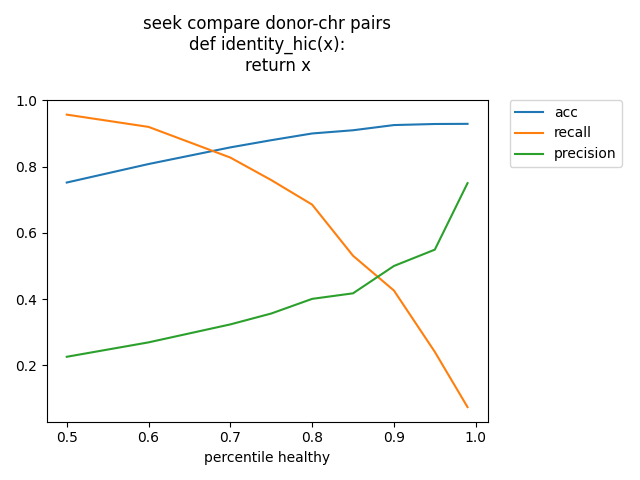
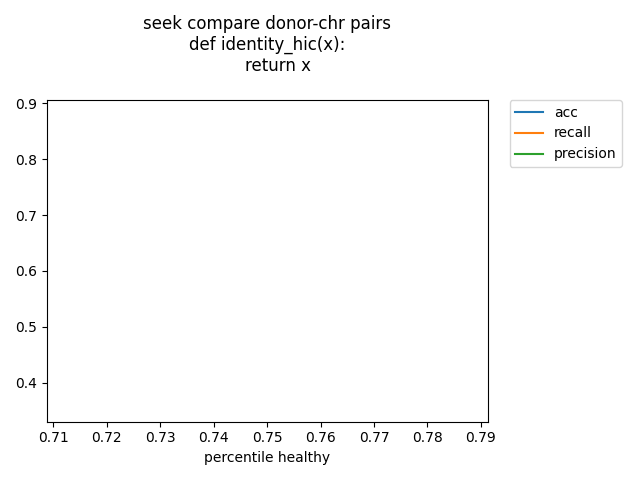
example search

diff --git a/DonorAnalyzer.py b/DonorAnalyzer.py
@@ -10,7 +10,8 @@ import sys
 from DenseUtils import heatmap_with_breakpoints_and_cluster, create_path_if_not_exist, plot_distribution, perf_measure, \
     plot_seek_distibution, plot_seek_compare, plot_sustainability
 from DonorRepository import DonorRepository
-from DonorService import collect_chr_bins_map_with_resolution, bps_to_bins_with_resolution, filter_svs_with_resolution
+from DonorService import collect_chr_bins_map_with_resolution, bps_to_bins_with_resolution, filter_svs_with_resolution, \
+    filter_chr_svs_with_resolution
 from GoldbergWeighted import WFind_Densest_Subgraph, WFind_Density
 
 import matplotlib.pyplot as plt
@@ -490,8 +491,10 @@ def shatter_seek_compare(analyze_donor_chr_pairs=False):
         COMMON_DONORS = seek_donors.intersection(pcawg_donors)
         COMMON_DONOR_CHR_PAIRS = list(map(lambda e: (e[0], int(e[1])), seek_chr_pairs.intersection(pcawg_pairs)))
 
-        iss = [11, 12, 1, 2, 3]
-        ratios = [0.5, 0.6, 0.7, 0.75, 0.8, 0.85, 0.9, 0.95, 0.99]
+        # iss = [11, 12, 1, 2, 3]
+        iss = [11]
+        # ratios = [0.5, 0.6, 0.7, 0.75, 0.8, 0.85, 0.9, 0.95, 0.99]
+        ratios = [0.75]
         print(f'mode donor chr pairs={analyze_donor_chr_pairs}')
         for i in iss:
             print(f'f_id = {i}')
@@ -499,6 +502,8 @@ def shatter_seek_compare(analyze_donor_chr_pairs=False):
             recalls = []
             precisions = []
             for ratio in ratios:
+                common_chromo_donor_pairs = []
+
                 infoids = hist_patients(i, ratio=ratio, dens_plot=False, seek_plot=False, periphery_plot=False,
                                         cluster_plot=False)
                 chromo_donors = set()
@@ -522,6 +527,12 @@ def shatter_seek_compare(analyze_donor_chr_pairs=False):
                             own_v.append(1)
                         else:
                             own_v.append(0)
+                        if seek_v[-1] == 1 and own_v[-1] == 1:
+                            common_chromo_donor_pairs.append(p)
+                    common_chromo_pairs_path = f'seek_compare/{f_id}/{ratio}/common_pairs.npy'
+                    create_path_if_not_exist(common_chromo_pairs_path)
+                    with open(common_chromo_pairs_path, 'wb') as fl:
+                        np.save(fl, np.array(common_chromo_donor_pairs))
                 else:
                     for d in COMMON_DONORS:
                         if d in seek_chromo_donors:
@@ -542,6 +553,7 @@ def shatter_seek_compare(analyze_donor_chr_pairs=False):
                 recalls.append(recall)
                 precisions.append(precision)
                 print(f'  percentile_healthy_threshold={ratio}, acc={acc}, recall={recall} precision={precision}')
+                print(f'  common chromo donor pairs:\n{common_chromo_donor_pairs}')
             f_source = rep.get_proximity_code(i)
             if analyze_donor_chr_pairs:
                 save_path = f'seek_compare/by_donor_chr_pairs/{i}.png'
@@ -627,6 +639,88 @@ def corr_test(f_id):
     print(np.corrcoef(denss, list(map(math.sqrt, edgess)))[0, 1])
 
 
+def diff_example_own_seek(f_id, ratio):
+    print(f'f_id = {f_id}, ratio = {ratio}')
+    common_chromo_pairs_path = f'seek_compare/{f_id}/{ratio}/common_pairs.npy'
+    with open(common_chromo_pairs_path, 'rb') as fl:
+        donor_pairs: np.ndarray = np.load(fl)
+        print(f'donor_pairs:\n{donor_pairs}')
+        donors = list(set(map(lambda p: p[0], donor_pairs.tolist())))
+        print(f'donors:\n{donors}')
+
+        cool = cooler.Cooler('healthy_hics/Rao2014-IMR90-MboI-allreps-filtered.500kb.cool')
+        with DonorRepository() as rep:
+            for donor in tqdm(donors):
+                _, _, _ = analyze_donor(donor=donor, cooler=cool, f_id=f_id,
+                                        f_proximity=identity_hic, rep=rep,
+                                        hic_plot=True, from_hic=True, oe=False,
+                                        in_bp=True)
+
+
+def find_the_most_diff_seek_pair(f_id, ratio):
+    print(f'f_id = {f_id}, ratio = {ratio}')
+    common_chromo_pairs_path = f'seek_compare/{f_id}/{ratio}/common_pairs.npy'
+    with open(common_chromo_pairs_path, 'rb') as fl:
+        donor_pairs: np.ndarray = np.load(fl)
+        print(f'donor_pairs:\n{donor_pairs}')
+        for (donor, chr) in donor_pairs:
+            min_own, max_own, min_seek, max_seek = donor_chr_pair_analyzer(donor, chr, f_id)
+            if min_own < min_seek or max_own > max_seek:
+                print(f'donor: {donor}, chr: {chr}')
+                print(min_own, max_own, min_seek, max_seek)
+
+
+
+def donor_chr_pair_analyzer(donor, chr, f_id):
+    print(f'donor: {donor}, chr: {chr}')
+    cool = cooler.Cooler('healthy_hics/Rao2014-IMR90-MboI-allreps-filtered.500kb.cool')
+    resolution = cool.info['bin-size']
+    with DonorRepository() as rep:
+        info_id = rep.get_info_id(donor, chr, f_id)
+        # print(f'info_id: {info_id}')
+        _, _, start_bp, end_bp, _ = rep.get_seek_markup_by_donor_chr(donor, chr)
+        # print(f'start_bp: {start_bp}, end_bp: {end_bp}')
+        _svs = rep.get_donor_chr_svs(donor, chr)
+        filtered_svs = filter_chr_svs_with_resolution(_svs, resolution)
+        # print(f'filtered_svs: {filtered_svs}')
+        chromo_seek_bps = seek_chromo_svs_by_range(start_bp, end_bp, filtered_svs)
+        chromo_seek_bins = list(set(map(lambda x: int(x / resolution), chromo_seek_bps)))
+
+        print(f'cnt bp seek: {len(chromo_seek_bps)}')
+        print(f'chromo seek bps: {chromo_seek_bps}')
+        print(f'cnt bin seek: {len(chromo_seek_bins)}')
+        print(f'chromo seek bins: {chromo_seek_bins}')
+
+        chromo_own_bps = rep.get_cluster(info_id)
+        chromo_own_bins = list(set(map(lambda x: int(x / resolution), chromo_own_bps)))
+
+        print(f'cnt bp own: {len(chromo_own_bps)}')
+        print(f'chromo own bps: {chromo_own_bps}')
+        print(f'cnt bin own: {len(chromo_own_bins)}')
+        print(f'chromo own bins: {chromo_own_bins}')
+
+        set_seek_bins = set(chromo_seek_bins)
+        set_own_bins = set(chromo_own_bins)
+
+        common_bins = set_seek_bins.intersection(set_own_bins)
+        extra_seek_bins = set_seek_bins.difference(set_own_bins)
+        extra_own_bins = set_own_bins.difference(set_seek_bins)
+        print(f'common_bins: {common_bins}')
+        print(f'extra seek bins: {extra_seek_bins}')
+        print(f'extra own bins: {extra_own_bins}')
+
+        return min(chromo_own_bps), max(chromo_own_bps), min(chromo_seek_bps), max(chromo_seek_bps),
+
+
+def seek_chromo_svs_by_range(_start, _end, svs):
+    chromo_bps = set()
+    for bp1, bp2 in svs:
+        if _start <= bp1 <= _end:
+            chromo_bps.add(bp1)
+        if _start <= bp2 <= _end:
+            chromo_bps.add(bp2)
+    return list(chromo_bps)
+
 def cluster_sustainability_percentile_test():
     t1 = time.time()
     fid_cluster_map = {}
@@ -691,8 +785,14 @@ if __name__ == '__main__':
 
     # shatter_seek_compare(analyze_donor_chr_pairs=True)
 
+    # diff_example_own_seek(11, 0.75)
+
+    donor_chr_pair_analyzer('0091_CRUK_PC_0091', 13, 11)
+
+    # find_the_most_diff_seek_pair(11, 0.75)
+
     # hic_oe_analyzer(oe=True)
 
     # corr_test(4)
 
-    cluster_sustainability_percentile_test()
+    # cluster_sustainability_percentile_test()

diff --git a/DonorRepository.py b/DonorRepository.py
@@ -150,7 +150,22 @@ class DonorRepository:
             '  FROM chromo ' +
             f'  WHERE "Chr" SIMILAR TO \'{regex_up_to_21}\''
         )
-        row = self.cur.fetchall()
+        rows = self.cur.fetchall()
+        return rows
+
+    def get_seek_markup_by_donor_chr(self, donor, chr):
+        self.cur.execute(
+            ' SELECT ' +
+            '   donor_unique_id, ' +
+            '   "Chr", ' +
+            '   "Start", ' +
+            '   "End", ' +
+            '   chromo_label ' +
+            '  FROM chromo ' +
+            f'  WHERE "Chr" SIMILAR TO \'{chr}\' ' +
+            f'    AND donor_unique_id SIMILAR TO \'%{donor}%\' '
+        )
+        row = self.cur.fetchone()
         return row
 
     # -1 not found

diff --git a/DonorService.py b/DonorService.py
@@ -33,3 +33,14 @@ def filter_svs_with_resolution(svs, resolution):
         else:
             chr_sv_map[chr_n].append((bp1, bp2))
     return chr_sv_map
+
+
+def filter_chr_svs_with_resolution(svs, resolution):
+    filtered_svs = []
+    for sv in svs:
+        bp1, bp2 = sv
+        bin1, bin2 = bps_to_bins_with_resolution(bp1, bp2, resolution)
+        if abs(bin1 - bin2) <= 1:
+            continue
+        filtered_svs.append((bp1, bp2))
+    return filtered_svs
